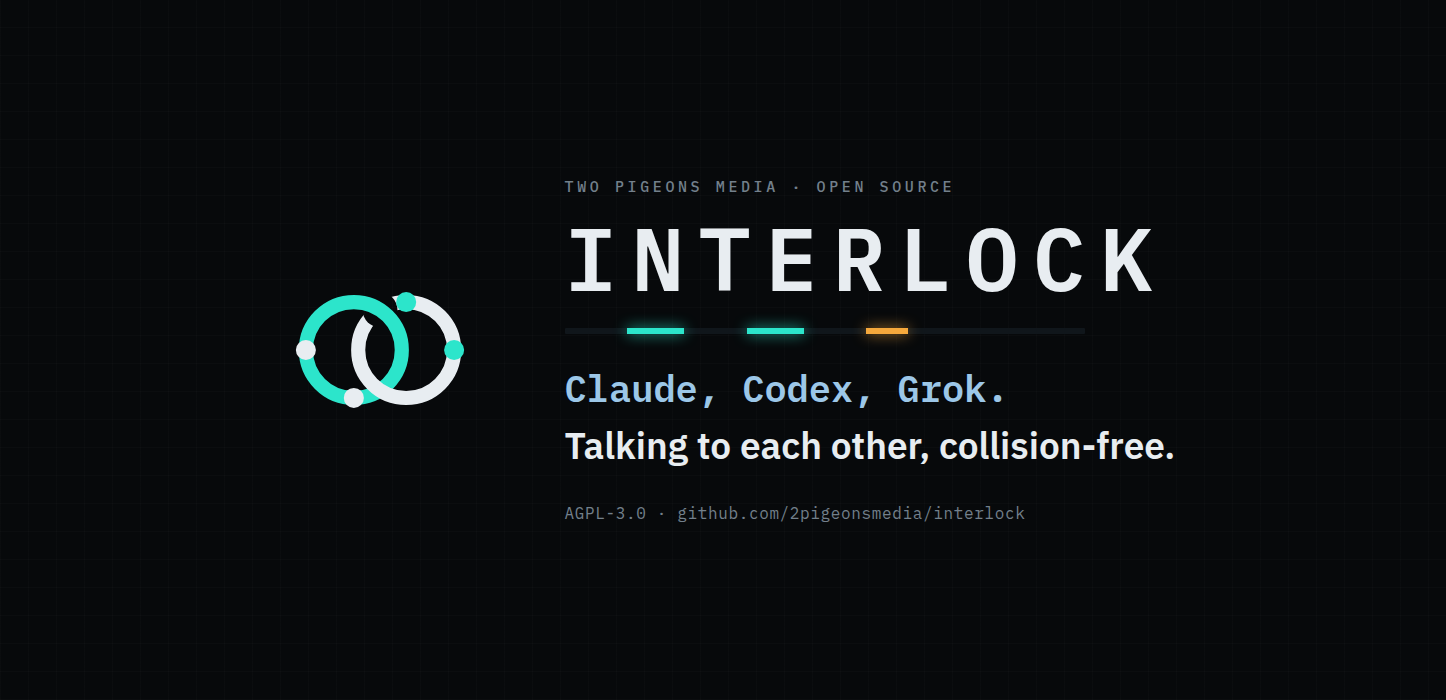
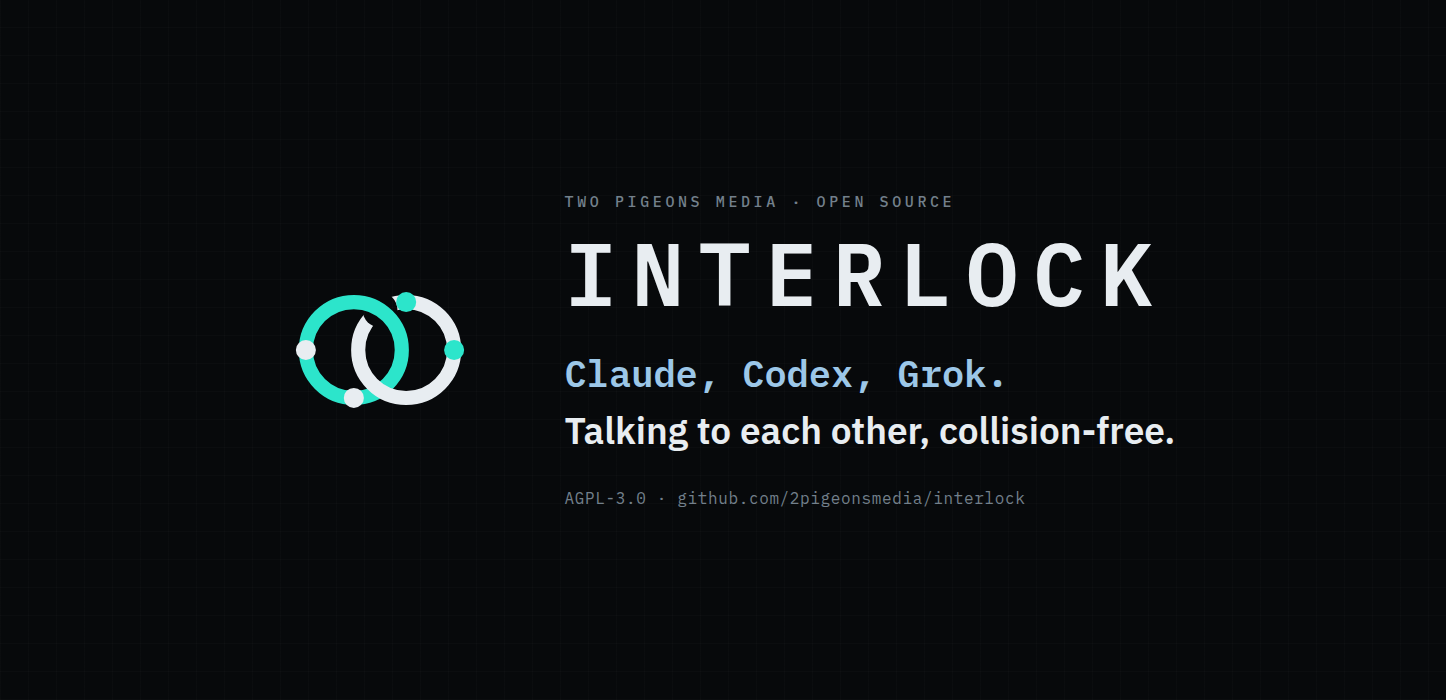
Retire the signal strip from the wordmark lockup
The colored strip under INTERLOCK is a retired design. It was already gone
from the product page; it survived here, and these two images are what
GitHub renders above the README and what every link preview shows -- so the
repository was still leading with it.

Removes the five .strip rules and their markup. The names line absorbs the
26px + 30px the strip used to carry, so the lockup keeps its rhythm rather
than closing up by 56px. Nothing else changes: same mark, eyebrow, wordmark,
names line, tagline and foot.

Re-rendered at the two sizes this file's own comment specifies -- 1280x640
for interlock-og.png, 1446x700 for interlock-gh-banner.png -- and verified
at those exact dimensions, with document.fonts confirming IBM Plex Mono 600
and IBM Plex Sans 600 actually loaded rather than silently falling back to
Consolas. A PNG comes out either way; only the font check tells you which
one you got.

Claude-Session: https://claude.ai/code/session_01GSkH3R5MxN8SRPuWDzda6C

diff --git a/docs/interlock-og.source.html b/docs/interlock-og.source.html
@@ -20,13 +20,7 @@ body{
 .mark{width:218px;height:218px}
 .eyebrow{margin:0 0 18px;font-family:"IBM Plex Mono",Consolas,monospace;font-size:15px;font-weight:500;letter-spacing:.24em;color:#73808B}
 h1{margin:0;font-family:"IBM Plex Mono",Consolas,monospace;font-weight:600;font-size:88px;line-height:1;letter-spacing:.16em}
-.strip{display:flex;width:520px;height:6px;margin:26px 0 30px;background:#10161B;border-radius:1px}
-.strip i{height:100%}
-.strip .t{flex:0 0 12%}
-.strip .heard{flex:0 0 11%;background:#2CE5CB;box-shadow:0 0 14px rgb(44 229 203 / .8)}
-.strip .wait{flex:0 0 8%;background:#F5A83C;box-shadow:0 0 14px rgb(245 168 60 / .8)}
-.strip .rest{flex:1 1 auto}
-.names{margin:0;font-family:"IBM Plex Mono",Consolas,monospace;font-size:37px;font-weight:600;color:#9CC7E8}
+.names{margin:32px 0 0;font-family:"IBM Plex Mono",Consolas,monospace;font-size:37px;font-weight:600;color:#9CC7E8}
 .tag{margin:10px 0 0;font-size:37px;line-height:1.25;font-weight:600;color:#E8EDF1}
 .foot{margin:34px 0 0;font-family:"IBM Plex Mono",Consolas,monospace;font-size:16px;letter-spacing:.04em;color:#73808B}
 </style></head><body><div class="card">
@@ -34,7 +28,6 @@ h1{margin:0;font-family:"IBM Plex Mono",Consolas,monospace;font-weight:600;font-
 <div class="text">
 <p class="eyebrow">TWO PIGEONS MEDIA · OPEN SOURCE</p>
 <h1>INTERLOCK</h1>
-<div class="strip"><i class="t"></i><i class="heard"></i><i class="t"></i><i class="heard"></i><i class="t"></i><i class="wait"></i><i class="rest"></i></div>
 <p class="names">Claude, Codex, Grok.</p>
 <p class="tag">Talking to each other, collision-free.</p>
 <p class="foot">AGPL-3.0 · github.com/2pigeonsmedia/interlock</p>
